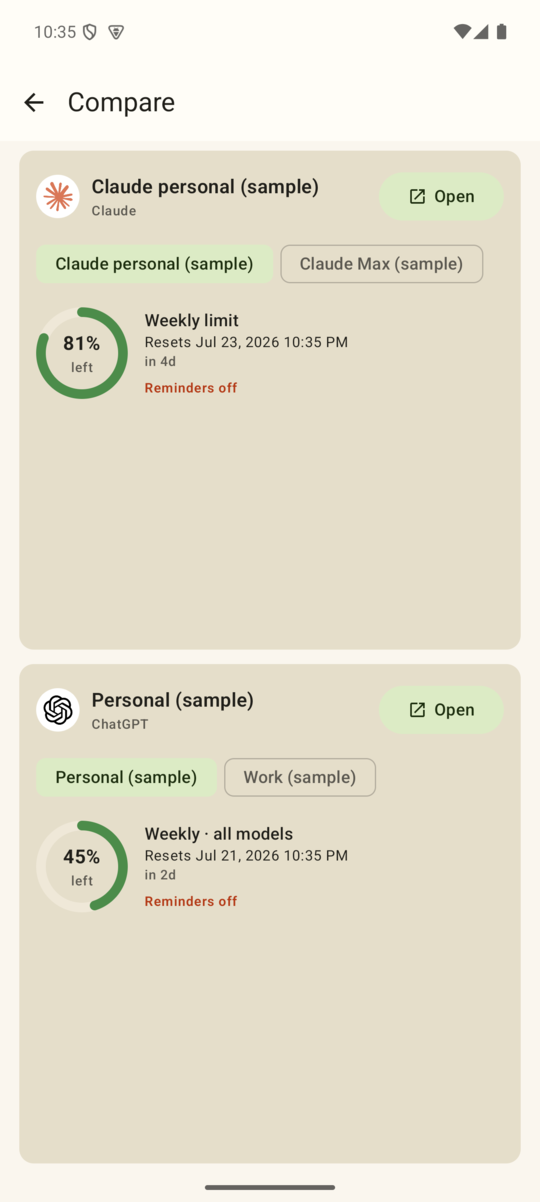
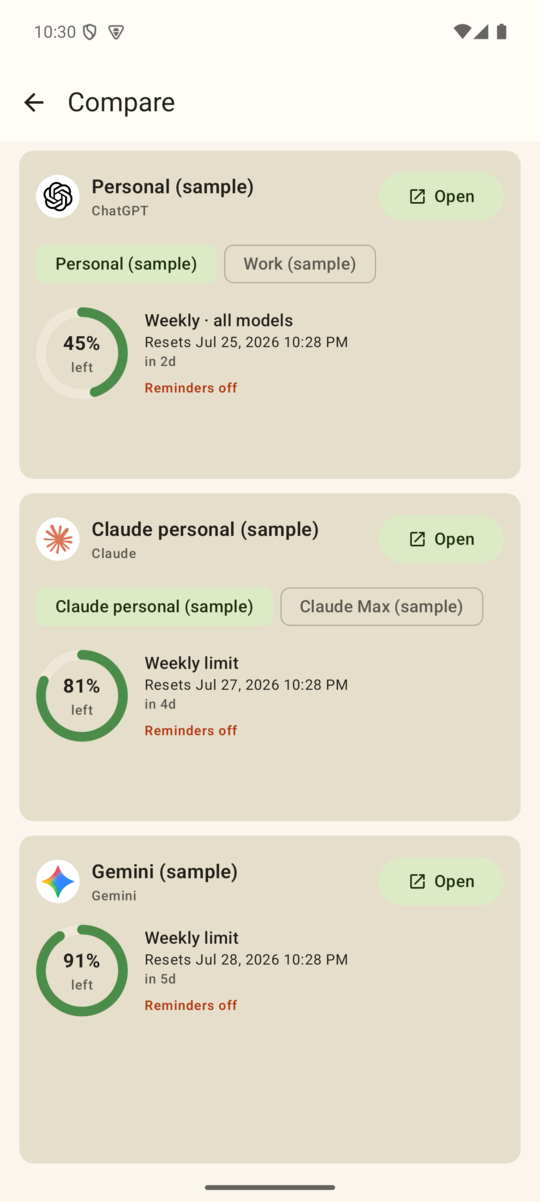
feat(gemini): add Google Gemini as a first-class provider (v1.7.0)
- Provider.GOOGLE across Today, Add Account, Compare, reminders
- Gemini logo badge + launch hand-off (gemini.google.com)
- OCR parser handles Gemini's Usage-limits screen: singular 'Weekly limit'
  label kept (was dropped), 'Current usage' → session kind; +1 parser test
- Compare view is now dynamic — one pane per provider that has accounts
- Gemini sample account; README + screenshots updated

diff --git a/apps/android/app/src/main/kotlin/com/demeter/app/ui/screens/CompareScreen.kt b/apps/android/app/src/main/kotlin/com/demeter/app/ui/screens/CompareScreen.kt
@@ -27,9 +27,8 @@ import androidx.compose.material3.TextButton
 import androidx.compose.material3.TopAppBar
 import androidx.compose.runtime.Composable
 import androidx.compose.runtime.getValue
-import androidx.compose.runtime.mutableStateOf
+import androidx.compose.runtime.mutableStateMapOf
 import androidx.compose.runtime.remember
-import androidx.compose.runtime.setValue
 import androidx.compose.ui.Alignment
 import androidx.compose.ui.Modifier
 import androidx.compose.ui.platform.LocalContext
@@ -66,10 +65,12 @@ fun CompareScreen(
     val rules by viewModel.repo.rules().collectAsStateWithLifecycle(initialValue = emptyList())
     val now by nowTicker()
 
-    val claude = accounts.filter { it.provider == Provider.ANTHROPIC }
-    val openai = accounts.filter { it.provider == Provider.OPENAI }
-    var claudeIndex by remember { mutableStateOf(0) }
-    var openaiIndex by remember { mutableStateOf(0) }
+    // One pane per provider the user actually has accounts for — so Gemini appears once added,
+    // and the view never shows an empty pane for a provider they don't use. Ordered Claude,
+    // ChatGPT, Gemini. Falls back to all providers when there are no accounts yet.
+    val providers = Provider.entries.filter { p -> accounts.any { it.provider == p } }
+        .ifEmpty { Provider.entries.toList() }
+    val selected = remember { mutableStateMapOf<Provider, Int>() }
 
     Scaffold(
         topBar = {
@@ -90,30 +91,21 @@ fun CompareScreen(
                 .padding(horizontal = 16.dp, vertical = 8.dp),
             verticalArrangement = Arrangement.spacedBy(12.dp),
         ) {
-            ComparePane(
-                provider = Provider.ANTHROPIC,
-                accounts = claude,
-                selectedIndex = claudeIndex.coerceAtMost((claude.size - 1).coerceAtLeast(0)),
-                onSelect = { claudeIndex = it },
-                windows = windows,
-                rules = rules,
-                now = now,
-                onOpenAccount = onOpenAccount,
-                onAddAccount = onAddAccount,
-                modifier = Modifier.weight(1f),
-            )
-            ComparePane(
-                provider = Provider.OPENAI,
-                accounts = openai,
-                selectedIndex = openaiIndex.coerceAtMost((openai.size - 1).coerceAtLeast(0)),
-                onSelect = { openaiIndex = it },
-                windows = windows,
-                rules = rules,
-                now = now,
-                onOpenAccount = onOpenAccount,
-                onAddAccount = onAddAccount,
-                modifier = Modifier.weight(1f),
-            )
+            providers.forEach { p ->
+                val provAccounts = accounts.filter { it.provider == p }
+                ComparePane(
+                    provider = p,
+                    accounts = provAccounts,
+                    selectedIndex = (selected[p] ?: 0).coerceAtMost((provAccounts.size - 1).coerceAtLeast(0)),
+                    onSelect = { selected[p] = it },
+                    windows = windows,
+                    rules = rules,
+                    now = now,
+                    onOpenAccount = onOpenAccount,
+                    onAddAccount = onAddAccount,
+                    modifier = Modifier.weight(1f),
+                )
+            }
         }
     }
 }

diff --git a/apps/android/app/src/main/kotlin/com/demeter/app/ui/screens/AddAccountScreen.kt b/apps/android/app/src/main/kotlin/com/demeter/app/ui/screens/AddAccountScreen.kt
@@ -92,7 +92,7 @@ fun AddAccountScreen(
             }
             Spacer(Modifier.height(10.dp))
             Text(
-                "Identified by name only — Demeter never signs in to your ${provider.accountNoun} or asks for a password. Independent app, not affiliated with OpenAI or Anthropic.",
+                "Identified by name only — Demeter never signs in to your ${provider.accountNoun} or asks for a password. Independent app, not affiliated with OpenAI, Anthropic, or Google.",
                 style = MaterialTheme.typography.bodySmall,
                 color = MaterialTheme.colorScheme.onSurfaceVariant,
             )
@@ -143,7 +143,7 @@ private fun ProviderCard(
     val accent = providerAccent(provider)
     Card(
         onClick = onClick,
-        modifier = modifier.height(156.dp),
+        modifier = modifier.height(150.dp),
         colors = CardDefaults.cardColors(
             containerColor = if (selected) accent.copy(alpha = 0.12f) else MaterialTheme.colorScheme.surfaceVariant,
         ),
@@ -152,37 +152,35 @@ private fun ProviderCard(
         Column(
             Modifier
                 .fillMaxSize()
-                .padding(16.dp),
+                .padding(horizontal = 8.dp, vertical = 14.dp),
             horizontalAlignment = Alignment.CenterHorizontally,
             verticalArrangement = Arrangement.Center,
         ) {
-            val logoRes = when (provider) {
-                Provider.OPENAI -> R.drawable.ic_provider_openai
-                Provider.ANTHROPIC -> R.drawable.ic_provider_anthropic
-            }
             Box(
                 Modifier
-                    .size(64.dp)
+                    .size(56.dp)
                     .clip(CircleShape)
                     .background(Color.White),
                 contentAlignment = Alignment.Center,
             ) {
                 Image(
-                    painter = painterResource(logoRes),
+                    painter = painterResource(providerLogoRes(provider)),
                     contentDescription = null,
-                    modifier = Modifier.size(46.dp),
+                    modifier = Modifier.size(40.dp),
                 )
             }
-            Spacer(Modifier.height(12.dp))
+            Spacer(Modifier.height(10.dp))
             Text(
                 provider.displayLabel,
-                style = MaterialTheme.typography.titleMedium,
+                style = MaterialTheme.typography.titleSmall,
                 fontWeight = FontWeight.SemiBold,
+                maxLines = 1,
             )
             Text(
                 provider.accountNoun,
-                style = MaterialTheme.typography.bodySmall,
+                style = MaterialTheme.typography.labelSmall,
                 color = MaterialTheme.colorScheme.onSurfaceVariant,
+                textAlign = androidx.compose.ui.text.style.TextAlign.Center,
             )
         }
     }
@@ -191,4 +189,5 @@ private fun ProviderCard(
 private fun providerAccent(p: Provider): Color = when (p) {
     Provider.OPENAI -> Color(0xFF10877A)
     Provider.ANTHROPIC -> Color(0xFFCC7A52)
+    Provider.GOOGLE -> Color(0xFF4285F4)
 }

diff --git a/apps/android/app/src/test/kotlin/com/demeter/app/UsageScreenParserTest.kt b/apps/android/app/src/test/kotlin/com/demeter/app/UsageScreenParserTest.kt
@@ -86,6 +86,41 @@ class UsageScreenParserTest {
         line("Expires 8/12", 150, 1628),
     )
 
+    // Gemini "Usage limits" screen: "Current usage 11% used / Resets at 11:24 PM" and
+    // "Weekly limit 9% used / Resets July 26 at 5:24 PM". Note the singular "Weekly limit" label.
+    private val gemini = listOf(
+        line("10:03", 150, 65),
+        line("Usage limits", 200, 300),      // header (ends in "limits") — dropped
+        line("PRO", 430, 300),
+        line("Updated just now", 180, 520),
+        line("Current usage", 200, 620),
+        line("11% used", 780, 620),
+        line("Resets at 11:24 PM", 190, 700),
+        line("Weekly limit", 150, 810),
+        line("9% used", 780, 825),
+        line("Resets July 26 at 5:24 PM", 215, 875),
+        line("Get 5x more usage with AI Ultra", 280, 990),
+        line("$99.99/month", 145, 1035),
+    )
+
+    @Test
+    fun parsesGeminiUsageScreen() {
+        val windows = UsageScreenParser.parse(gemini, now, zone)
+        assertEquals(2, windows.size)
+
+        val current = windows.first { it.label.contains("current", ignoreCase = true) }
+        assertEquals(WindowKind.SESSION, current.kind)
+        assertEquals(11, current.usedPercent)
+        assertEquals(89, current.remainingPercent)
+        assertNotNull(current.resetAt) // "at 11:24 PM" today
+
+        val weekly = windows.first { it.label.contains("weekly", ignoreCase = true) }
+        assertEquals(WindowKind.WEEKLY, weekly.kind)
+        assertEquals(9, weekly.usedPercent)
+        assertEquals(91, weekly.remainingPercent)
+        assertEquals(Instant.parse("2026-07-26T17:24:00Z"), weekly.resetAt) // "July 26 at 5:24 PM"
+    }
+
     @Test
     fun ignoresStrayPercentageWithNoRealLabel() {
         // Browser chrome noise: a ":D" tab icon misread as "D)" and a stray "2%" nearby.

diff --git a/apps/android/app/src/main/kotlin/com/demeter/app/data/UsageScreenParser.kt b/apps/android/app/src/main/kotlin/com/demeter/app/data/UsageScreenParser.kt
@@ -68,8 +68,9 @@ object UsageScreenParser {
             val t = l.text.trim()
             STATUS_BAR.containsMatchIn(t) ||
                 t.equals("Usage", ignoreCase = true) ||
+                // Only the plural "Weekly limits" is a Claude/section header. Singular
+                // "Weekly limit" is Gemini's actual row label, so it must NOT be dropped.
                 t.equals("Weekly limits", ignoreCase = true) ||
-                t.equals("Weekly limit", ignoreCase = true) ||
                 isChrome(t) ||
                 t.isBlank()
         }
@@ -258,6 +259,8 @@ object UsageScreenParser {
 
     private fun kindFor(label: String): WindowKind = when {
         label.contains("session", ignoreCase = true) -> WindowKind.SESSION
+        // Gemini's "Current usage" is the short rolling window that resets daily.
+        label.contains("current", ignoreCase = true) -> WindowKind.SESSION
         label.contains("week", ignoreCase = true) -> WindowKind.WEEKLY
         label.contains("month", ignoreCase = true) -> WindowKind.MONTHLY
         label.contains("credit", ignoreCase = true) -> WindowKind.CREDITS

diff --git a/apps/android/app/src/main/kotlin/com/demeter/app/data/SampleData.kt b/apps/android/app/src/main/kotlin/com/demeter/app/data/SampleData.kt
@@ -67,6 +67,11 @@ object SampleData {
         val claudeMax = account(Provider.ANTHROPIC, "Claude Max (sample)")
         evidence(claudeMax, "Weekly · Opus", WindowKind.WEEKLY, "UNKNOWN", null, Duration.ofDays(1).plusHours(6), Duration.ofHours(1), SourceType.MANUAL)
 
+        // 5 — Gemini: daily "current usage" + weekly limit, both mostly available
+        val geminiPersonal = account(Provider.GOOGLE, "Gemini (sample)")
+        evidence(geminiPersonal, "Current usage", WindowKind.SESSION, "KNOWN", 89, Duration.ofHours(5), Duration.ofMinutes(3), SourceType.SCREENSHOT)
+        evidence(geminiPersonal, "Weekly limit", WindowKind.WEEKLY, "KNOWN", 91, Duration.ofDays(6), Duration.ofMinutes(3), SourceType.SCREENSHOT)
+
         db.reminderDao().insertEvent(
             ReminderEventEntity(
                 atEpochSec = now.epochSecond,

diff --git a/apps/android/app/src/main/kotlin/com/demeter/app/ui/screens/Common.kt b/apps/android/app/src/main/kotlin/com/demeter/app/ui/screens/Common.kt
@@ -206,11 +206,13 @@ fun headlineRank(kind: WindowKind): Int = when (kind) {
 fun providerLogoRes(provider: Provider): Int = when (provider) {
     Provider.OPENAI -> R.drawable.ic_provider_openai
     Provider.ANTHROPIC -> R.drawable.ic_provider_anthropic
+    Provider.GOOGLE -> R.drawable.ic_provider_google
 }
 
 private fun providerHomeUrl(provider: Provider): String = when (provider) {
     Provider.OPENAI -> "https://chatgpt.com"
     Provider.ANTHROPIC -> "https://claude.ai"
+    Provider.GOOGLE -> "https://gemini.google.com/app"
 }
 
 /**

diff --git a/apps/android/domain/src/main/kotlin/com/demeter/domain/model/Models.kt b/apps/android/domain/src/main/kotlin/com/demeter/domain/model/Models.kt
@@ -7,6 +7,7 @@ import java.time.Instant
 enum class Provider(val displayLabel: String, val accountNoun: String) {
     OPENAI("ChatGPT", "OpenAI account"),
     ANTHROPIC("Claude", "Anthropic account"),
+    GOOGLE("Gemini", "Google account"),
 }
 
 /** Source is a stable fact about where evidence came from — it is not a freshness state. */

diff --git a/README.md b/README.md
@@ -7,9 +7,10 @@
 <p align="center"><strong>Know what remains. Use it before it resets.</strong></p>
 
 <p align="center">
-  A local-first Android app that tracks your <b>ChatGPT</b> and <b>Claude</b> subscription usage
-  allowances — showing what capacity is left, when it resets, and reminding you before it slips
-  away. Every number comes from evidence <b>you</b> provide, and nothing ever leaves your device.
+  A local-first Android app that tracks your <b>ChatGPT</b>, <b>Claude</b>, and <b>Gemini</b>
+  subscription usage allowances — showing what capacity is left, when it resets, and reminding you
+  before it slips away. Every number comes from evidence <b>you</b> provide, and nothing ever
+  leaves your device.
 </p>
 
 <p align="center">
@@ -56,8 +57,8 @@ Demeter (the app) helps you harvest what you're already paying for:
   "60% left" **and** "last updated 2 days ago."
 - **📸 Import from a screenshot.** Snap your provider's usage screen and Demeter reads it with
   **on-device OCR** — parsing multi-window screens (Claude's session/weekly/model limits, ChatGPT's
-  weekly limit + reset checkpoints) into separate, editable windows. You can also paste the text or
-  enter values by hand.
+  weekly limit + reset checkpoints, Gemini's current-usage + weekly limit) into separate, editable
+  windows. You can also paste the text or enter values by hand.
 - **🔔 Truthful reminders.** Best-effort local reminders before each reset, with lead times from
   **7 days down to 1 hour**. A reminder based on stale data says so ("you had 60% left as of 2d
   ago") instead of pretending it's live. Nothing is ever a false alarm.
@@ -68,8 +69,8 @@ Demeter (the app) helps you harvest what you're already paying for:
 - **✉ Email reminders (opt-in).** Reminder notifications can show an **Email** button that opens a
   pre-filled draft in your mail app — handy for keeping an archived copy in your inbox and reading
   it on desktop. Demeter never sends mail itself (see the caveat below).
-- **🗂 Multiple accounts.** Track several ChatGPT and Claude accounts side by side, each with its
-  own windows and reminder rules.
+- **🗂 Multiple providers & accounts.** Track ChatGPT, Claude, and Gemini accounts side by side,
+  each with its own windows and reminder rules.
 
 ---
 
